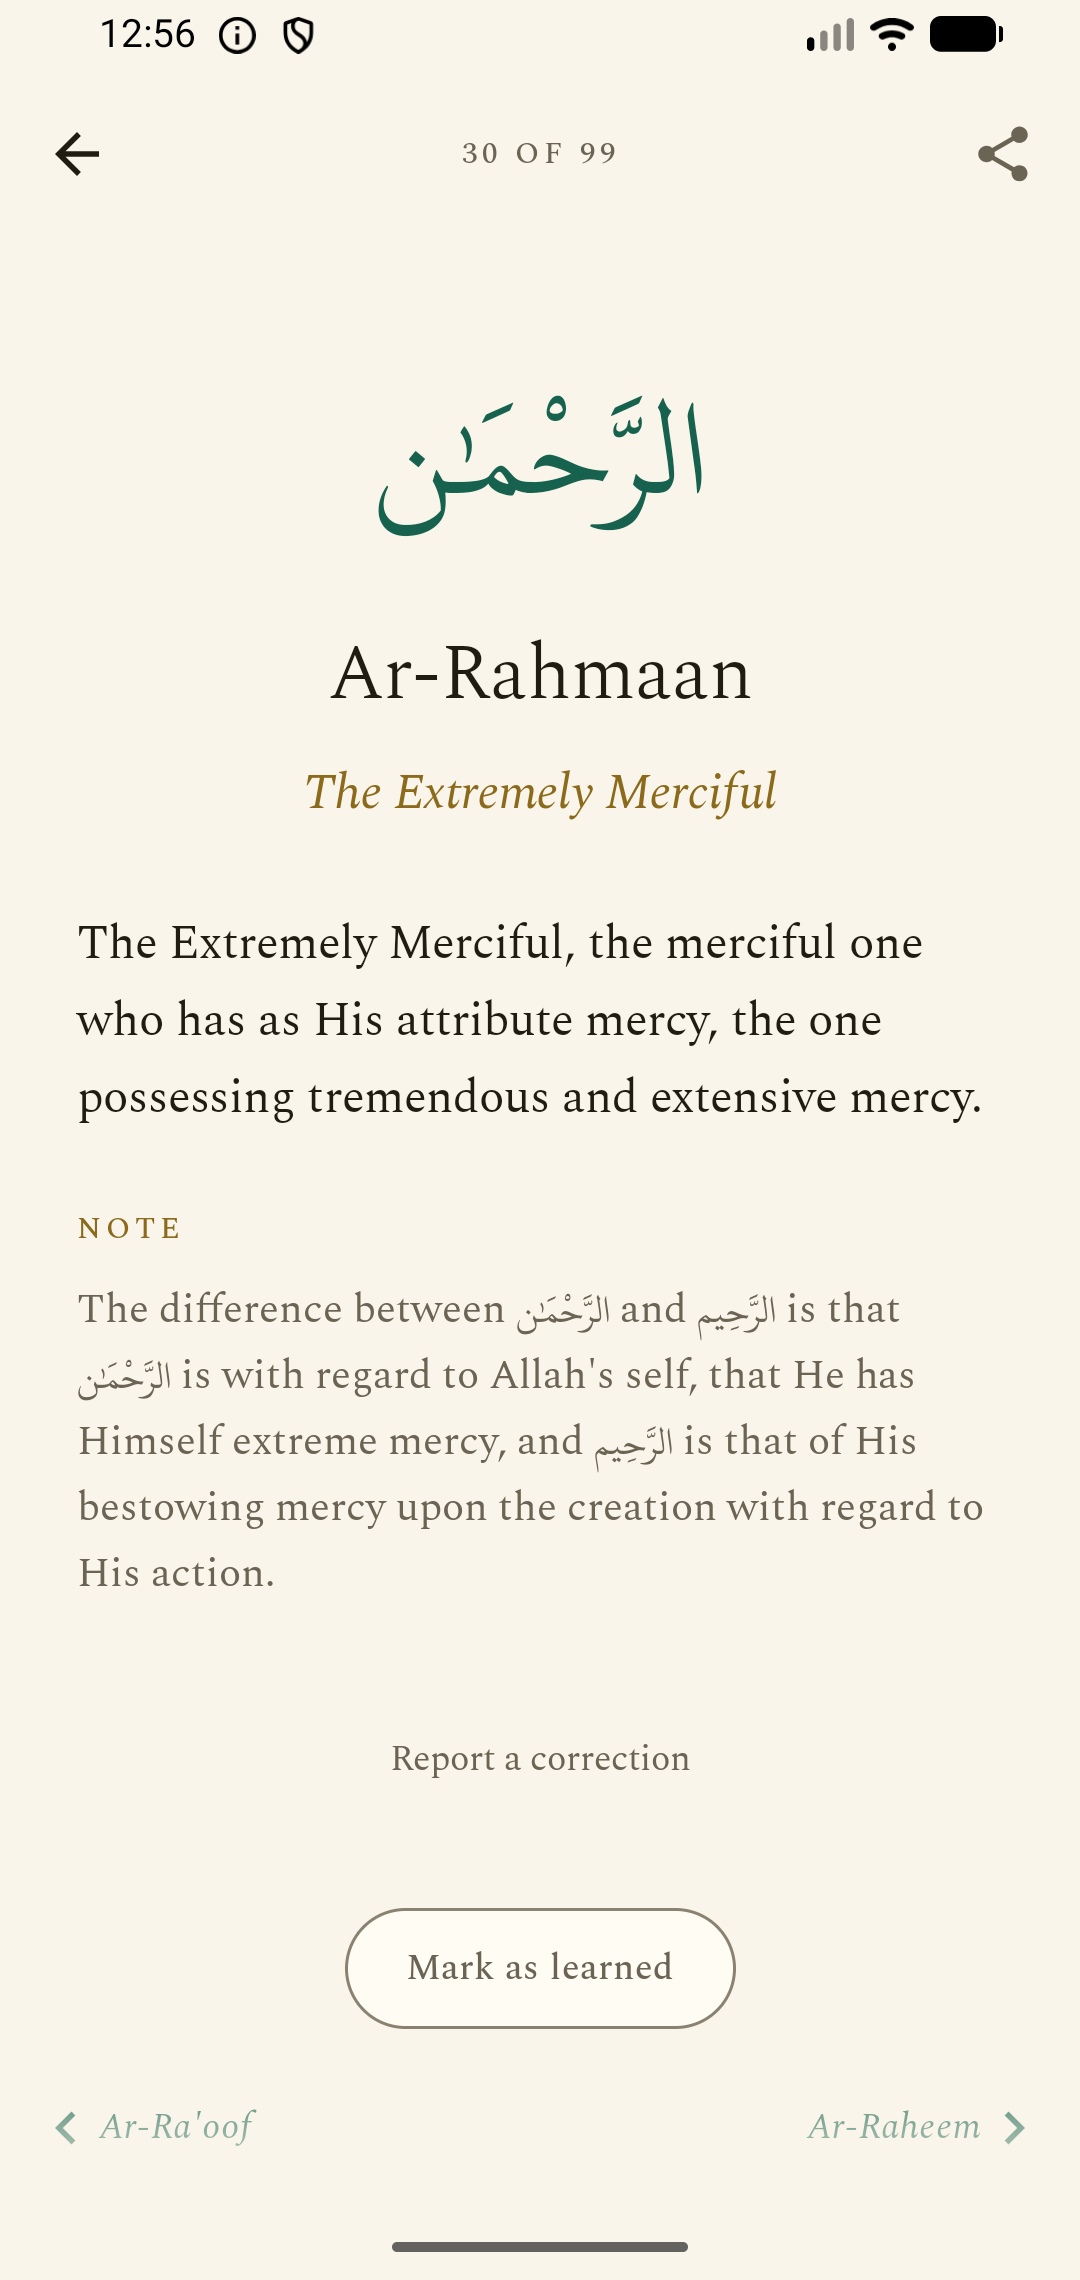
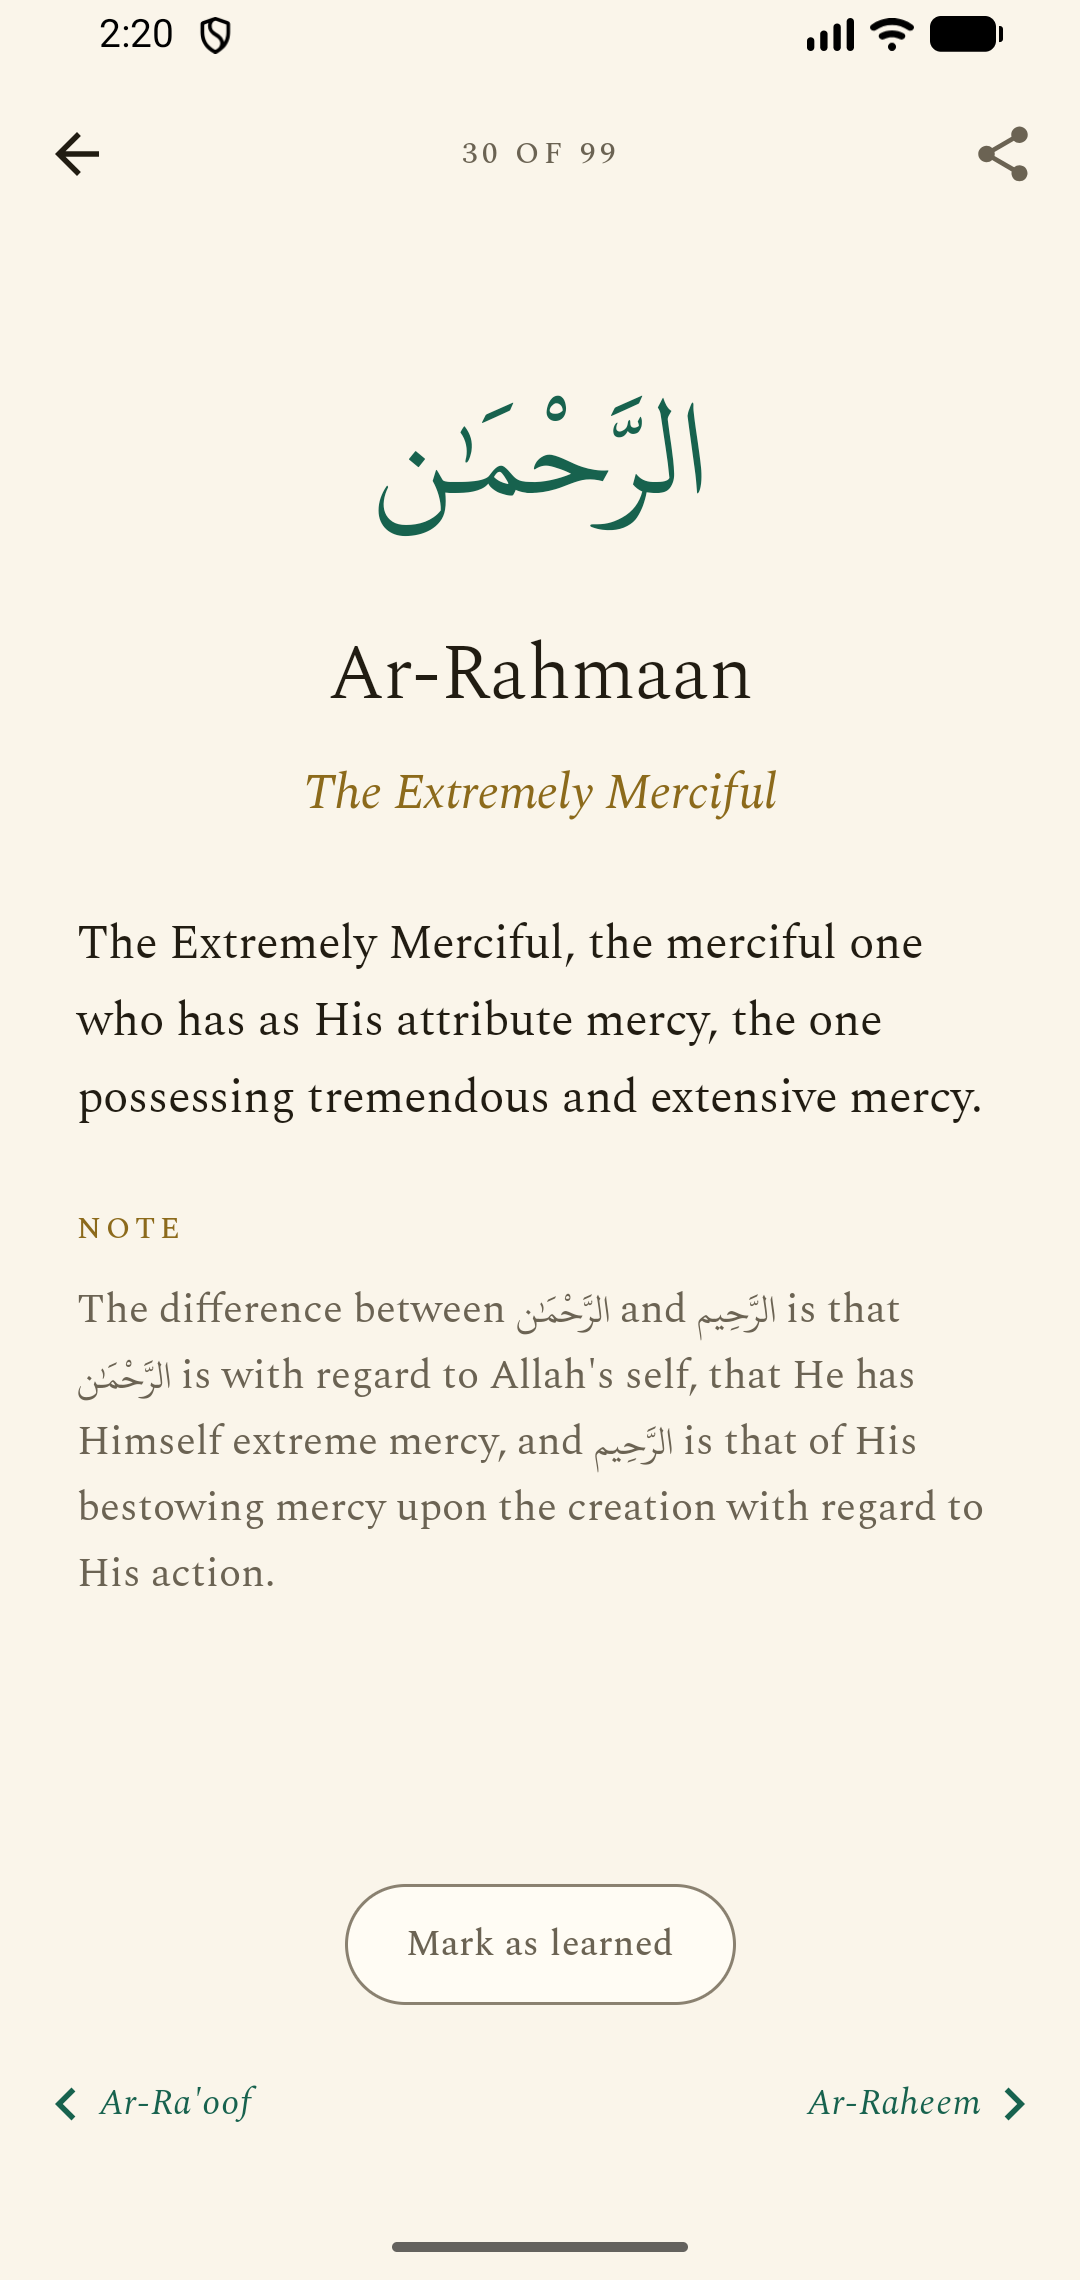
v3.0: the shared image carries the name the app goes by on Play
The card at the foot of a shared name said "The Ninety Nine Names
of Allah". That image is the only surface someone who has never
installed the app ever sees, so it should carry the name they can
type into Play and find. New store_title string, kept in step with
the Console by hand; app_title is untouched, so the home top bar
still reads as a running head.

FitText was scaling fontSize but not letterSpacing. Tracking is
part of a type size, not a constant beside it: held fixed it made
shrunken small caps look loose, and set a hard floor on how narrow
a line could get. 27 tracked characters are 48.6dp of air that no
amount of shrinking removed, which is why the old 30-character
wordmark could not render below 210dp and clipped under ~357dp.

Regenerate docs/screenshot-name.png, stale since v2.6 — it still
showed the "Report a correction" link removed in v2.8, and it is
a Play listing screenshot as well as a README image.

diff --git a/app/src/main/java/io/github/muntasimulhaque/ninetynine/ui/share/ShareSheet.kt b/app/src/main/java/io/github/muntasimulhaque/ninetynine/ui/share/ShareSheet.kt
@@ -211,16 +211,27 @@ private fun ShareCard(name: Name, modifier: Modifier = Modifier) {
                         )
                     }
                     Spacer(Modifier.width(9.dp))
+                    // The store's name, not the app's own. This image is the
+                    // only surface a stranger sees, so it carries the title
+                    // they can type into Play and actually find — see the note
+                    // over store_title in strings.xml.
+                    //
                     // Fitted, not fixed: tracked small caps at 11sp put
-                    // "THE NINETY NINE NAMES OF ALLAH" at 262dp — 18.880 em plus
-                    // 30 characters of 1.8sp tracking — against the 246dp left
-                    // beside the seal on a Pixel 4, and less than that on a
-                    // narrower phone, since the card follows the screen.
+                    // "NINETY NINE: NAMES OF ALLAH" at 233dp — 16.729 em plus
+                    // 27 characters of 1.8sp tracking — against the 246dp left
+                    // beside the seal on a Pixel 4 (which is 393dp wide, not
+                    // 411: 1080px at density 440), so it sits there at full
+                    // size. The card follows the screen, so the room is always
+                    // the screen width less 147dp of chrome — 48 sheet, 20 box,
+                    // 44 inner padding, 26 seal, 9 gap — giving 213dp on a
+                    // 360dp phone and 173dp on a 320dp one. A floor of 0.5
+                    // clears the last of those with room to spare: measured at
+                    // 0.727 in the exported PNG.
                     FitText(
-                        text = stringResource(R.string.app_title).uppercase(),
+                        text = stringResource(R.string.store_title).uppercase(),
                         style = MaterialTheme.typography.labelMedium,
                         color = HeroSubtext,
-                        minScale = 0.75f,
+                        minScale = 0.5f,
                     )
                 }
             }

diff --git a/app/src/main/java/io/github/muntasimulhaque/ninetynine/ui/theme/components/PageParts.kt b/app/src/main/java/io/github/muntasimulhaque/ninetynine/ui/theme/components/PageParts.kt
@@ -28,6 +28,7 @@ import androidx.compose.ui.res.stringResource
 import androidx.compose.ui.text.TextStyle
 import androidx.compose.ui.text.rememberTextMeasurer
 import androidx.compose.ui.unit.dp
+import androidx.compose.ui.unit.isSpecified
 import io.github.muntasimulhaque.ninetynine.R
 
 /*
@@ -94,6 +95,14 @@ fun BackButton(onBack: () -> Unit) {
  * it only caps growth at what the space can hold. Measured up front, so there
  * is no first-frame flicker the way a layout-feedback loop would have.
  *
+ * Tracking steps down with the size, because letter-spacing is part of a type
+ * size and not a constant beside it. Held fixed it does two harmful things:
+ * shrunken small caps look loose, and — worse — the fixed air sets a hard floor
+ * on how narrow the line can ever get. The share card's wordmark is 27 tracked
+ * characters, so 49dp of its 233dp is air that no amount of shrinking used to
+ * remove; the 30-character wordmark it replaced could not render below 210dp
+ * however far it shrank, and so clipped on any screen under ~357dp.
+ *
  * [minScale] is a floor, never a target; it exists only so a pathological
  * constraint cannot loop forever. Set it low enough that the text always wins:
  * a caller that would rather be small than cut should say so.
@@ -115,7 +124,13 @@ fun FitText(
             while (candidate.fontSize > floor &&
                 measurer.measure(text, candidate, softWrap = false).size.width > available
             ) {
-                candidate = candidate.copy(fontSize = candidate.fontSize * 0.95f)
+                val tracking = candidate.letterSpacing
+                candidate = candidate.copy(
+                    fontSize = candidate.fontSize * 0.95f,
+                    // Unspecified on every untracked style (headlineSmall,
+                    // displaySmall), and multiplying that is not meaningful.
+                    letterSpacing = if (tracking.isSpecified) tracking * 0.95f else tracking,
+                )
             }
             candidate
         }
